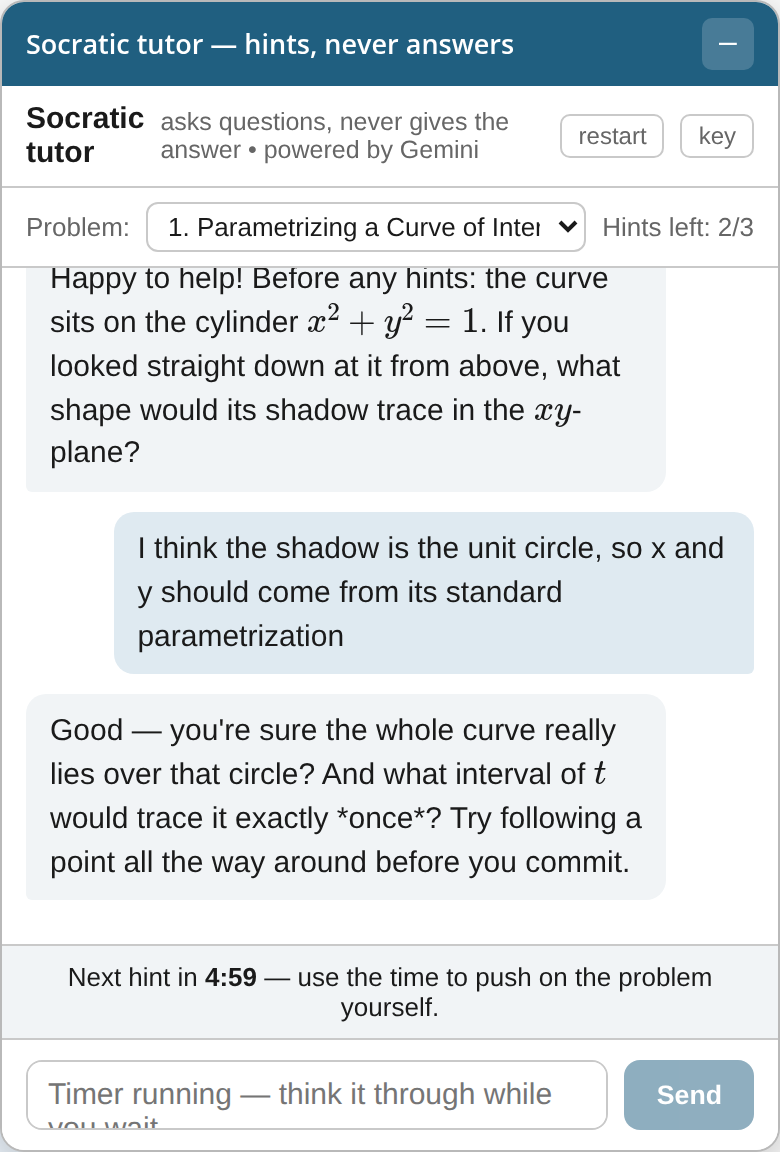
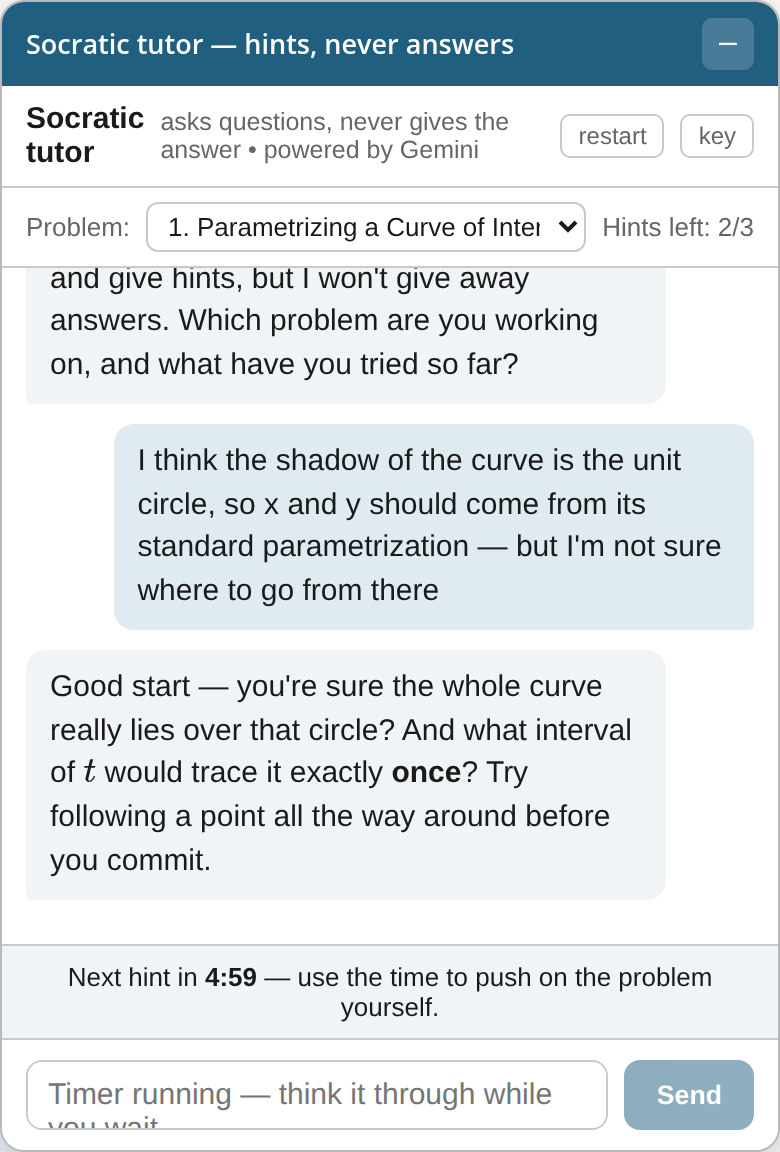
Count every tutor reply as a hint
Field testing showed the "first reply free" rule leaking: the free
intake slot is charged nothing and starts no timer, but when a student
opens with "I don't know how to start," Gemini uses that slot for a
real nudge - an uncharged, untimed hint.  The interface cannot judge
reply content, so the rule is now unconditional: every tutor reply
costs one of the 3 hints and starts the shared 5-minute cooldown.
The system prompt tells the model to fold "what have you tried?" into
a substantive reply instead of spending one asking it, and the
"Using the AI Tutor" guide and panel screenshot are updated to match.

Claude-Session: https://claude.ai/code/session_01RHLDjGNAbp2VrroUzPXrgf

Changed region(s): [[0.0615, 0.2188, 0.9846, 0.7812]]

diff --git a/assets/gemini-tutor.html b/assets/gemini-tutor.html
@@ -183,7 +183,7 @@ What you MAY do — these are your only tools:
 
 If the student hasn't said which problem they're working on, ask. If asked about anything outside the problems on this page or the course material, briefly redirect.
 
-Style: warm, encouraging, brief — one question at a time, at most a short paragraph per reply. Before your first hint on a problem, ask what the student has tried.`;
+Style: warm, encouraging, brief — one question at a time, at most a short paragraph per reply. Every reply you send costs the student one of their few hints, so make every reply carry a real nudge: if you need to know what the student has tried, ask it alongside the nudge, never as a reply of its own.`;
 
 // Problem statements for the student's current page, delivered by the host
 // page via postMessage (see assets/custom.js). Solutions are never included.
@@ -249,9 +249,9 @@ function apiKey() {
 }
 
 /* ===== hint budget ======================================================= */
-// Hard limits enforced by the interface, not the model: per problem, the
-// first tutor reply (asking what you've tried) is free, then at most
-// HINT_LIMIT hints total, with COOLDOWN_MS between hints. Counters live in
+// Hard limits enforced by the interface, not the model: per problem, at
+// most HINT_LIMIT tutor replies in total — EVERY reply counts, there is no
+// free intake reply — with COOLDOWN_MS between replies. Counters live in
 // localStorage, survive restarts and reloads, and never reset — solutions
 // are published after the due date.
 
@@ -272,17 +272,16 @@ function recordReply(label) {
   const p = d.probs[label] || { replies: 0 };
   p.replies += 1;
   d.probs[label] = p;
-  // ONE timer for the whole widget: any counted hint, on any problem,
-  // starts the same global cooldown. The first reply on a problem is
-  // free intake ("what have you tried?") and starts no timer.
-  if (p.replies > 1) d.lastHintAt = Date.now();
+  // ONE timer for the whole widget: every reply, on any problem, starts
+  // the same global cooldown.
+  d.lastHintAt = Date.now();
   try { localStorage.setItem(HINT_STORE, JSON.stringify(d)); } catch (e) {}
   return p;
 }
 
 function hintsUsed(label) {
   const p = loadHints().probs[label] || { replies: 0 };
-  return Math.max(0, p.replies - 1);
+  return p.replies;
 }
 function hintsLeft(label) { return Math.max(0, HINT_LIMIT - hintsUsed(label)); }
 function cooldownLeftMs() {
@@ -429,8 +428,8 @@ async function send() {
     typing.remove();
     addMessage("tutor", reply);
     curHistory().push({ role: "model", text: reply });
-    const p = recordReply(currentProb);
-    if (p.replies > 1 && hintsLeft(currentProb) === 0) {
+    recordReply(currentProb);
+    if (hintsLeft(currentProb) === 0) {
       addMessage("error", OFFICE_HOURS_MSG);
     }
   } catch (err) {
